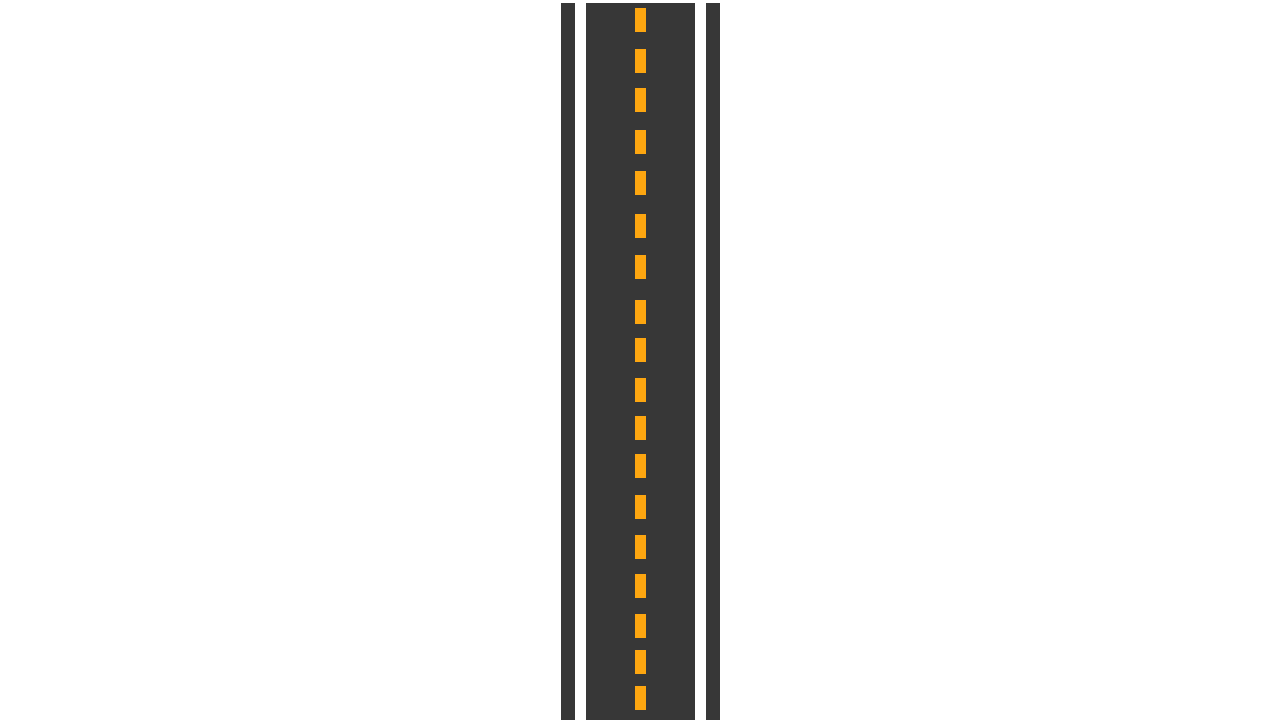
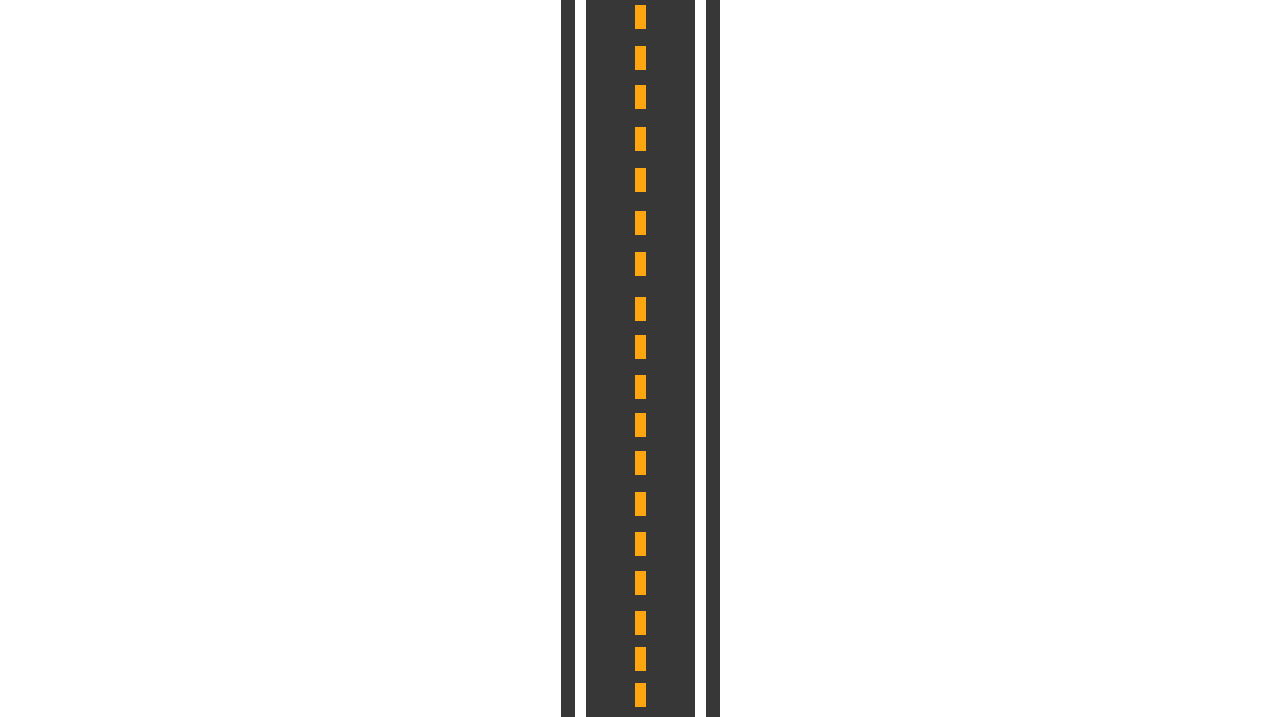
sdfg

diff --git a/story.html b/story.html
@@ -4,7 +4,6 @@
     <head>
         <title>Candidate Website</title>
         <link rel = "stylesheet" href = "styles.css">
-        <link rel="stylesheet" href="donatestyles.css">
         <meta name="viewport" content="width=device-width, initial-scale=1.0">
         <script src="script.js"></script>
         <link href="//db.onlinewebfonts.com/c/10d0501adc787b5f33eec4eefdd9b5b1?family=Brother+1816" rel="stylesheet" type="text/css"/>
@@ -26,9 +25,7 @@
     <link rel="stylesheet" href="./css/toast.css">
     <!-- custom -->
     <link rel="stylesheet" href="./css/custom.css">
-    <link rel="stylesheet" href="contactstyles.css">
-    <script src="script1.js"></script>
-
+    <link rel="stylesheet" href="story.css">
     </head>
 
     <body>
@@ -44,20 +41,16 @@
                 </b>
                 <ul id='ul'>
                     <li><a href="story.html" class='btn'>IAN'S STORY</a></li>
-                    <li><a href="" class='btn'>IAN'S VISION</a></li>
+                    <li><a href="platform.html" class='btn'>IAN'S VISION</a></li>
                     <li><a href="contact.html" class='btn'>GET IN TOUCH</a></li>
                     <li class="donate"><a href="donate.html"  class='btn donate'>DONATE</a></li>
                 </ul>
             </div>
         </div>
-        <div class="flex-container" style="height: 100vh;">
-            <div style="float: left;">
-            <div class="flex-child"><div class="support">Get In Touch With Ian</div></div>
-            <div class="supportnonbold">Please direct your emails to: <span style="color:#DB504A;" id='john1' class="john" onclick="copy(this)" >khchiang@yahoo.ca </span></div>
-            </div>
-            <div style="float: left; margin-left: 50px; margin-top: 200px;">
-                <svg xmlns="http://www.w3.org/2000/svg" width="200" height="200" viewBox="0 0 24 24" fill="none" stroke="#266BCC" stroke-width="1.5" stroke-linecap="round" stroke-linejoin="round" class="feather feather-mail"><path d="M4 4h16c1.1 0 2 .9 2 2v12c0 1.1-.9 2-2 2H4c-1.1 0-2-.9-2-2V6c0-1.1.9-2 2-2z"></path><polyline points="22,6 12,13 2,6"></polyline></svg>
-            </div>
+            <div class='front'>
+        </div>
+        <div class='cardiv'>
+            <img src="img/car.png" class='car'>
         </div>
         <footer class="container bg-main-color">
             <div class="row-short">
@@ -77,6 +70,7 @@
     </body>
     <script>
         window.onload = function() { browserChecker()};
+        
         var ua = navigator.userAgent.toLowerCase(); 
 
         var ul = document.getElementById('ul');

diff --git a/index.html b/index.html
@@ -39,6 +39,7 @@
                     <a href="index.html"><img src="img/logo.png" width='135' height='42' style="padding-top: 10px; padding-right: 2vw; padding-left: 2vw; max-height: 42px;"></a>
                 </b>
                 <ul id='ul'>
+                    <li><a href="story.html" class='btn'>IAN'S STORY</a></li>
                     <li><a href="platform.html" class='btn'>IAN'S VISION</a></li>
                     <li><a href="contact.html" class='btn'>GET IN TOUCH</a></li>
                     <li class="donate"><a href="donate.html"  class='btn donate'>DONATE</a></li>

diff --git a/donate.html b/donate.html
@@ -41,6 +41,7 @@
                     <a href="index.html"><img src="img/logo.png" width='135' height='42' style="padding-top: 10px; padding-right: 2vw; padding-left: 2vw; max-height: 42px;"></a>
                 </b>
                 <ul id='ul'>
+                    <li><a href="story.html" class='btn'>IAN'S STORY</a></li>
                     <li><a href="" class='btn'>IAN'S VISION</a></li>
                     <li><a href="contact.html" class='btn'>GET IN TOUCH</a></li>
                     <li class="donate"><a href="donate.html"  class='btn donate'>DONATE</a></li>

diff --git a/platform.html b/platform.html
@@ -43,6 +43,7 @@
                     <a href="index.html"><img src="img/logo.png" width='135' height='42' style="padding-top: 10px; padding-right: 2vw; padding-left: 2vw; max-height: 42px;"></a>
                 </b>
                 <ul id='ul'>
+                    <li><a href="story.html" class='btn'>IAN'S STORY</a></li>
                     <li><a href="" class='btn'>IAN'S VISION</a></li>
                     <li><a href="contact.html" class='btn'>GET IN TOUCH</a></li>
                     <li class="donate"><a href="donate.html"  class='btn donate'>DONATE</a></li>

diff --git a/story.css b/story.css
@@ -1,0 +1,22 @@
+.front {
+    height: 600vh;
+    width: 100vw;
+    background-image: url("img/road.png");
+    background-position: center;
+}
+
+.car {
+    width: 109.2px;
+    height: 49.9px;
+  margin-top: 30px;
+  margin-bottom: 0;
+}
+
+.cardiv {
+    width: 100px;
+    height: 150px;
+    position: fixed;
+    right: 45vw;
+    top: 100px;
+    z-index: 10;
+}
